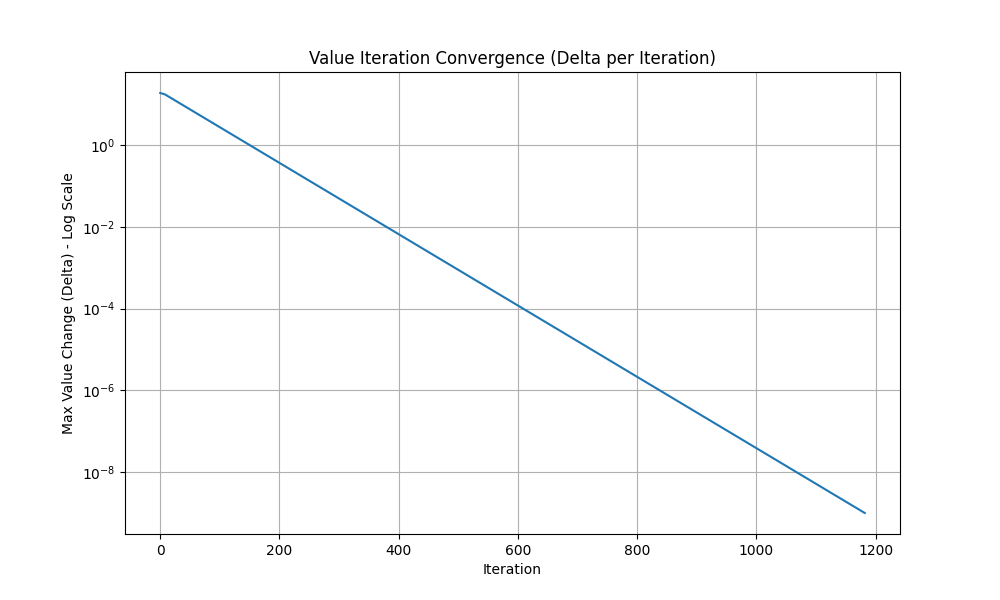
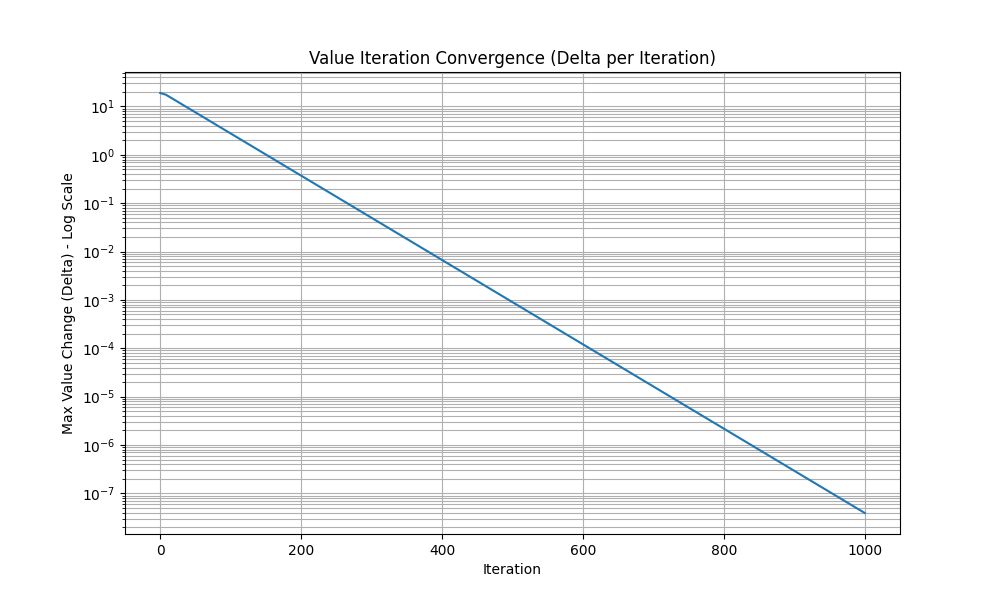
Add ablation study and quantitative metrics for value iteration

diff --git a/Value_Iteration.py b/Value_Iteration.py
@@ -5,89 +5,135 @@ import seaborn as sns
 import time
 import matplotlib.patches as mpatches
 from matplotlib.colors import ListedColormap, BoundaryNorm
+import pandas as pd
 
-def value_iteration(env, discount_factor=0.99, theta=1e-9):
+def value_iteration(env, discount_factor=0.99, theta=1e-9, max_iterations=1000):
     """
-    Runs the Value Iteration algorithm to find the optimal Value Function V*.
+    Runs Value Iteration to find the optimal Value Function V* and Policy.
+    Now returns 'iterations' count for comparison.
     """
     state_size = env.observation_space.n
     action_size = env.action_space.n
     
-    # Initialize V(s) to zeros
     value_table = np.zeros(state_size)
-    deltas = [] # To track convergence speed
+    deltas = [] 
     
     iteration = 0
-    print("Starting Value Iteration...")
     
-    while True:
+    # --- The Training Loop ---
+    while iteration < max_iterations:
         delta = 0
         
-        # Sweep through all states
+        # Sweep through all 500 states
         for s in range(state_size):
             v_old = value_table[s]
             
-            # Calculate the value of all actions from this state
+            # Check every action's possible outcome
             action_values = []
             for a in range(action_size):
                 q_sa = 0
-                
-                ### --- FIX 1: Use env.unwrapped.P --- ###
+                # Sum over all possible next states (prob, next_state, reward, done)
                 for prob, next_state, reward, terminated in env.unwrapped.P[s][a]:
                     q_sa += prob * (reward + discount_factor * value_table[next_state])
-                
                 action_values.append(q_sa)
             
-            # Update value table with the best action's value
+            # Update V(s) to the max value found
             value_table[s] = np.max(action_values)
-            
-            # Track largest change
             delta = max(delta, abs(v_old - value_table[s]))
             
         deltas.append(delta)
         iteration += 1
         
         if delta < theta:
-            print(f"Value Iteration converged after {iteration} iterations.")
             break
             
-    # --- Extract Optimal Policy ---
-    print("Extracting optimal policy...")
+    # --- Policy Extraction ---
     policy = np.zeros(state_size, dtype=int)
-    
     for s in range(state_size):
         action_values = []
         for a in range(action_size):
             q_sa = 0
-            
-            ### --- FIX 2: Use env.unwrapped.P here too --- ###
             for prob, next_state, reward, terminated in env.unwrapped.P[s][a]:
                 q_sa += prob * (reward + discount_factor * value_table[next_state])
-            
             action_values.append(q_sa)
-        
-        # The best action is the one that maximizes the expected value
         policy[s] = np.argmax(action_values)
         
-    return value_table, policy, deltas
-def plot_convergence(deltas):
-    """Plots the 'Delta' (max change) over iterations."""
-    plt.figure(figsize=(10, 6))
-    plt.plot(deltas)
-    plt.yscale('log') # Log scale makes it easier to see small deltas
-    plt.title("Value Iteration Convergence (Delta per Iteration)")
-    plt.xlabel("Iteration")
-    plt.ylabel("Max Value Change (Delta) - Log Scale")
-    plt.grid(True, which="both", ls="-")
-    plt.savefig("./results_V/vi_convergence_plot.png")
-    plt.show()
+    return value_table, policy, deltas, iteration
+
+def evaluate_policy(env, policy, episodes=100):
+    """
+    Quantitatively measures how good the policy is.
+    Runs 100 episodes without exploration and calculates average reward.
+    """
+    total_rewards = []
+    total_steps = []
+    
+    for _ in range(episodes):
+        state, _ = env.reset()
+        episode_reward = 0
+        steps = 0
+        terminated = False
+        truncated = False
+        
+        while not (terminated or truncated):
+            action = policy[state]
+            state, reward, terminated, truncated, _ = env.step(action)
+            episode_reward += reward
+            steps += 1
+            if steps > 100: break # Safety break
+            
+        total_rewards.append(episode_reward)
+        total_steps.append(steps)
+        
+    avg_reward = np.mean(total_rewards)
+    avg_steps = np.mean(total_steps)
+    return avg_reward, avg_steps
+
+def run_ablation_study(env):
+    """
+    Compares different Hyperparameters (Gamma).
+    """
+    print("\n--- Running Ablation Study (Hyperparameter Comparison) ---")
+    
+    # We will test how Discount Factor affects convergence speed
+    gammas = [0.1, 0.5, 0.8, 0.9, 0.99]
+    results_iters = []
+    results_rewards = []
+    
+    for gamma in gammas:
+        print(f"Testing Gamma (Discount Factor): {gamma}")
+        _, policy, _, iterations = value_iteration(env, discount_factor=gamma)
+        
+        # Evaluate how good this policy is
+        avg_reward, _ = evaluate_policy(env, policy, episodes=50)
+        
+        results_iters.append(iterations)
+        results_rewards.append(avg_reward)
+    
+    # --- Plot 1: Gamma vs. Convergence Speed ---
+    plt.figure(figsize=(10, 5))
+    plt.plot(gammas, results_iters, marker='o', color='purple')
+    plt.title("Impact of Discount Factor (Gamma) on Convergence Speed")
+    plt.xlabel("Discount Factor (Gamma)")
+    plt.ylabel("Iterations to Converge")
+    plt.grid(True)
+    plt.savefig("./results_V/ablation_gamma_vs_iterations.png")
+    print("Saved ablation plot: ablation_gamma_vs_iterations.png")
+    
+    # --- Plot 2: Gamma vs. Final Score ---
+    plt.figure(figsize=(10, 5))
+    plt.plot(gammas, results_rewards, marker='s', color='green')
+    plt.title("Impact of Discount Factor (Gamma) on Policy Quality")
+    plt.xlabel("Discount Factor (Gamma)")
+    plt.ylabel("Average Reward (50 episodes)")
+    plt.grid(True)
+    plt.savefig("./results_V/ablation_gamma_vs_reward.png")
+    print("Saved ablation plot: ablation_gamma_vs_reward.png")
 
 def visualize_vi_policy_maps(env, value_table, policy, scenario_name, passenger_loc, dest_loc):
     """
     Creates specific heatmaps for Value Iteration results.
-    Identical to the Q-Learning visualization for comparison.
     """
-    
     # Setup grids
     value_grid_goto = np.zeros((5, 5))
     policy_grid_goto = np.zeros((5, 5), dtype=int)
@@ -159,60 +205,74 @@ def visualize_vi_policy_maps(env, value_table, policy, scenario_name, passenger_
 
 def watch_vi_agent(env, policy, start_row, start_col, passenger_loc, dest_loc):
     """Visualizes the Optimal Policy for a specific scenario."""
-    
-    # 1. Initialize the environment (Satisfies the ResetNeeded error)
     env.reset() 
-    
-    # 2. Manually set our specific scenario
     state = env.unwrapped.encode(start_row, start_col, passenger_loc, dest_loc)
     env.unwrapped.s = state
     
     print(f"\nWatching VI Agent: ({start_row},{start_col}) -> Pass({passenger_loc}) -> Dest({dest_loc})")
     
-    # 3. Now we can render safely
-    env.render()
     time.sleep(1)
     
     terminated = False
     truncated = False
     steps = 0
+    total_reward = 0
     
     while not (terminated or truncated):
         action = policy[state]
         state, reward, terminated, truncated, info = env.step(action)
         steps += 1
+        total_reward += reward
         time.sleep(0.5)
         
-    print(f"Finished in {steps} steps.")
+    print(f"Finished in {steps} steps. Total Reward: {total_reward}")
+
+def plot_convergence(deltas):
+    plt.figure(figsize=(10, 6))
+    plt.plot(deltas)
+    plt.yscale('log')
+    plt.title("Value Iteration Convergence (Delta per Iteration)")
+    plt.xlabel("Iteration")
+    plt.ylabel("Max Value Change (Delta) - Log Scale")
+    plt.grid(True, which="both", ls="-")
+    plt.savefig("./results_V/vi_convergence_plot.png")
+    print("Saved convergence plot: vi_convergence_plot.png")
+
 def main():
-    # 1. Setup Environment
+    # 1. Setup
     env = gym.make("Taxi-v3", render_mode=None)
     
-    # 2. Run Value Iteration
-    value_table, policy, deltas = value_iteration(env)
+    # --- PART A: Main Training ---
+    print("--- Part A: Running Main Value Iteration ---")
+    value_table, policy, deltas, iterations = value_iteration(env, discount_factor=0.99)
+    print(f"Converged in {iterations} iterations.")
     
-    # 3. Plot Convergence
+    # --- PART B: Quantitative Evaluation (New!) ---
+    print("\n--- Part B: Quantitative Evaluation ---")
+    avg_reward, avg_steps = evaluate_policy(env, policy, episodes=100)
+    print(f"FINAL SCORE: Average Reward over 100 episodes: {avg_reward:.2f}")
+    print(f"FINAL SCORE: Average Steps per episode: {avg_steps:.2f}")
+    
+    # --- PART C: Plotting ---
     plot_convergence(deltas)
     
-    # 4. Generate Comparison Heatmaps
-    print("Generating Policy Maps...")
     temp_env = gym.make("Taxi-v3")
-    
-    # Scenario 1: R(0,0) to B(4,0)
     fig1 = visualize_vi_policy_maps(temp_env, value_table, policy, "R to B", 0, 2)
     fig1.savefig("./results_V/vi_policy_R_to_B.png")
     
-    # Scenario 2: Y(4,3) to R(0,0)
     fig2 = visualize_vi_policy_maps(temp_env, value_table, policy, "Y to R", 3, 0)
     fig2.savefig("./results_V/vi_policy_Y_to_R.png")
     
-    plt.show()
+    # --- PART D: Ablation Study (New!) ---
+    run_ablation_study(env)
     
-    # 5. Watch the Agent
-    env_human = gym.make("Taxi-v3", render_mode="human")
-    watch_vi_agent(env_human, policy, 0, 1, 0, 2) # R to B example
-    watch_vi_agent(env_human, policy, 2, 2, 3, 0) # Y to R example
-    env_human.close()
+    print("\nAll experiments complete. Check './results_V/' folder.")
+    
+    # --- PART E: Watch It Run ---
+    # Uncomment below if you want to see the animation
+    # env_human = gym.make("Taxi-v3", render_mode="human")
+    # watch_vi_agent(env_human, policy, 0, 1, 0, 2) 
+    # env_human.close()
 
 if __name__ == "__main__":
     main()
